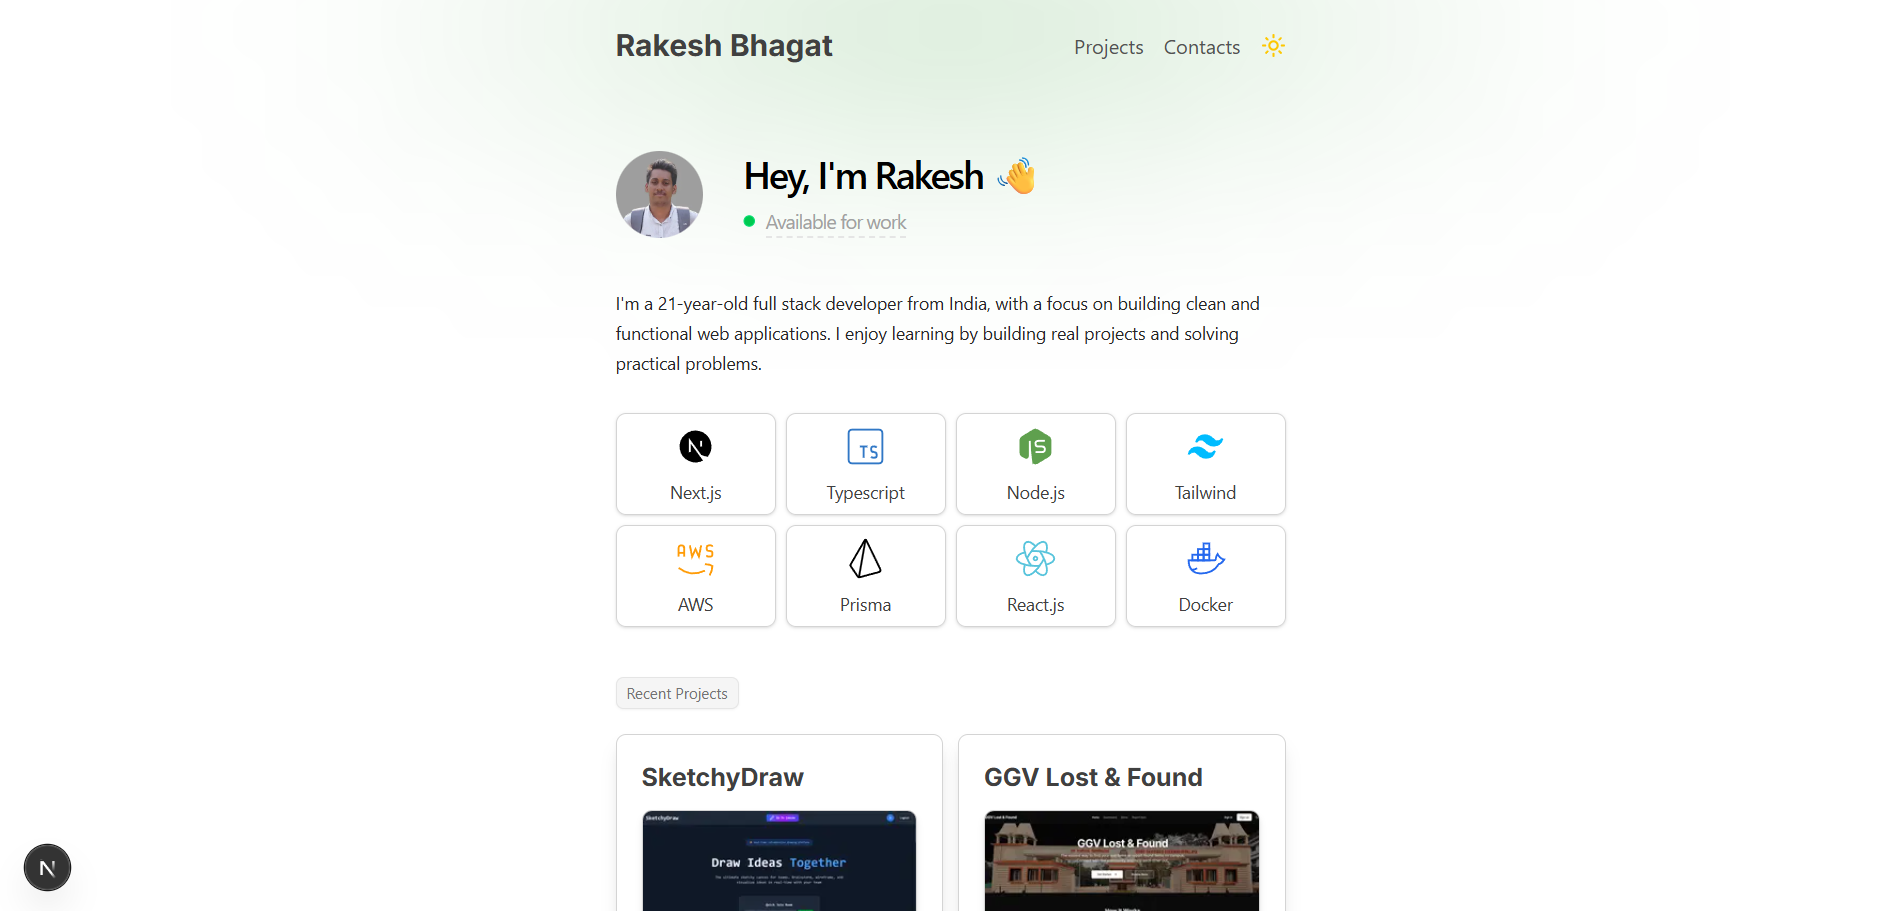
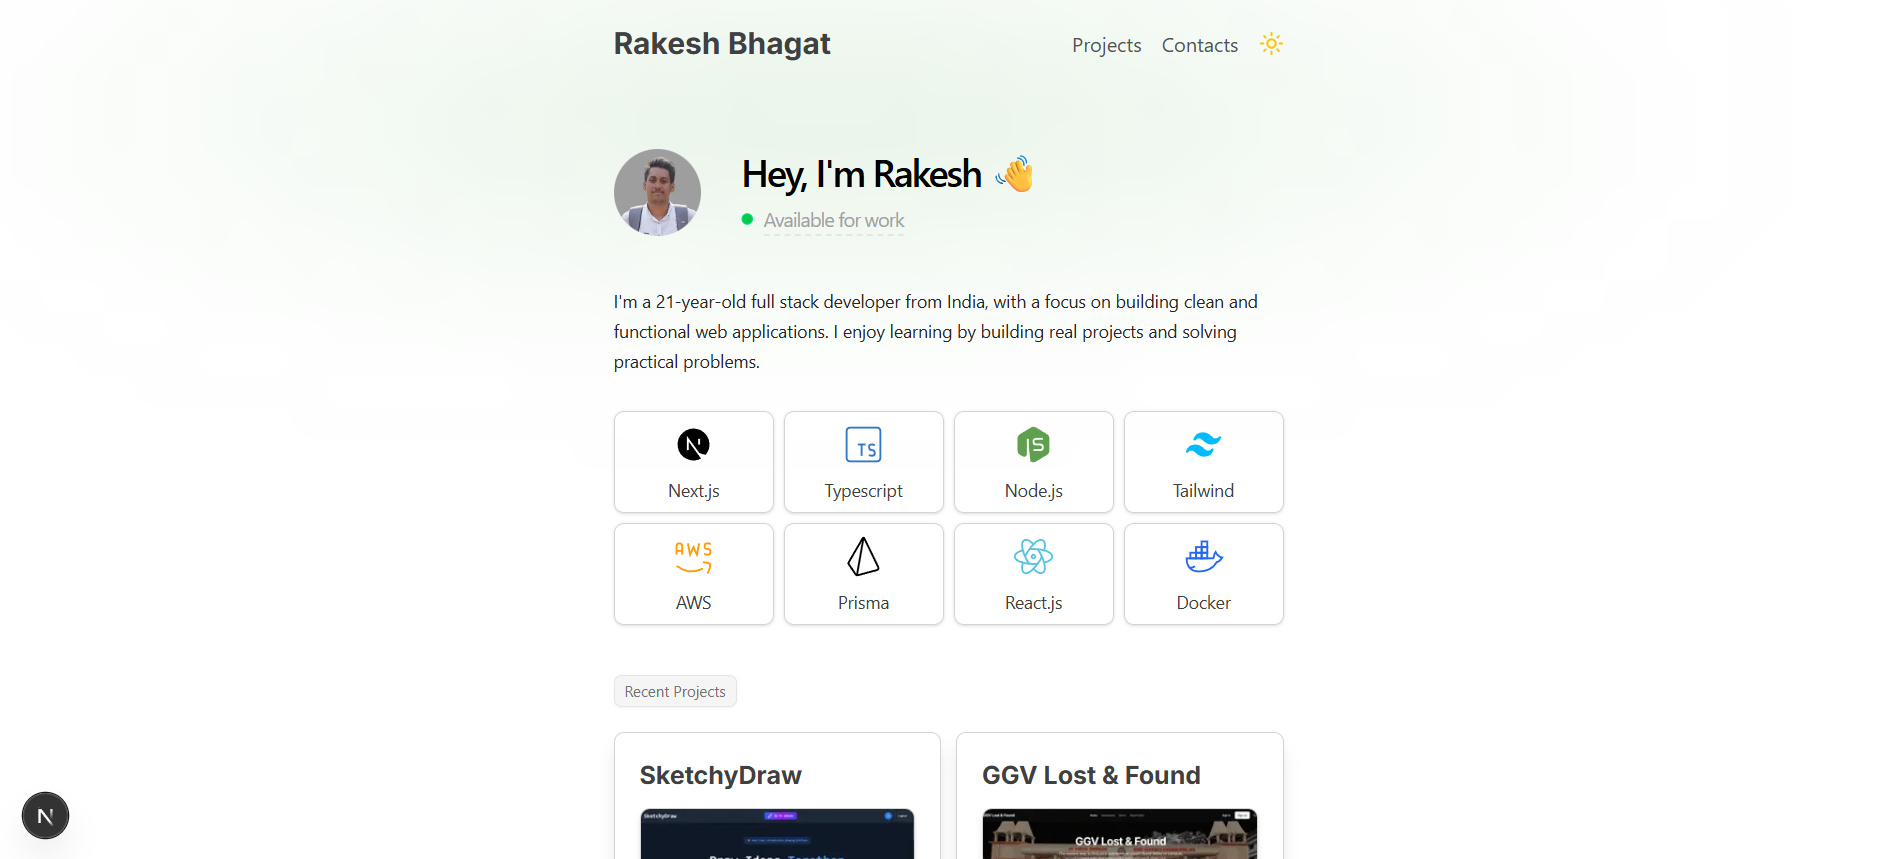
added project and contact page

diff --git a/app/contact/page.tsx b/app/contact/page.tsx
@@ -1,0 +1,89 @@
+"use client";
+import Footer from "@/components/Footer";
+import Navbar from "@/components/Navbar";
+import { IconSend2 } from "@tabler/icons-react";
+import { div } from "motion/react-client";
+import { useState } from "react";
+
+const Contact = () => {
+  const [name, setName] = useState("");
+  const [email, setEmail] = useState("");
+  const [message, setMessage] = useState("");
+  const [received, setReceived] = useState(false);
+
+  const handleSubmit = async (e:React.FormEvent<HTMLElement>) => {
+    e.preventDefault();
+    try {
+      const res = await fetch("/api/email", {
+        method: "POST",
+        headers: { "Content-Type": "application/json" },
+        body: JSON.stringify({ name, email, message }),
+      });
+
+      const data = await res.json();
+      console.log(res)
+      if (res.ok) {
+        setReceived(true)
+        setName("");
+        setEmail("");
+        setMessage("");
+      } else {
+        alert("Error: " + data.message);
+      }
+    } catch (error) {
+      alert("Something went wrong");
+      console.error(error);
+    }
+  };
+  return (
+    <div className=" h-screen mx-auto w-full md:max-w-2xl flex flex-col font-poppins px-5">
+      <Navbar />
+      <h1 className="text-4xl font-bold ">Contact me</h1>
+      {received && (
+        <div className="mt-10 flex gap-2">
+            <p className="">Thanks for the message. I will try to reply as soon as possible.</p>
+            <button onClick={()=>setReceived(false)} className="bg-yellow-200 px-3 rounded-md text-neutral-600 cursor-pointer">Message again</button>
+        </div>
+        )}
+      {!received && (
+      <div className="flex flex-col ">
+        <form onSubmit={handleSubmit}>
+          <div className="grid grid-cols-1 md:grid-cols-2 gap-2 mt-10 mb-2 md:my-10">
+            <input
+              value={name}
+              onChange={(e) => setName(e.target.value)}
+              type="text"
+              placeholder="Name"
+              className="border border-neutral-200 rounded-md shadow-sm px-3 py-1"
+            />
+            <input
+              value={email}
+              onChange={(e) => setEmail(e.target.value)}
+              type="text"
+              placeholder="Email"
+              className="border border-neutral-200 rounded-md shadow-sm px-3 py-1"
+            />
+          </div>
+          <textarea
+            value={message}
+            onChange={(e) => setMessage(e.target.value)}
+            name="desc"
+            id="desc"
+            placeholder="Leave feedback about site, Career Opurtunities or just say hello etc."
+            className="border w-full border-neutral-200 rounded-md shadow-sm px-3 py-1 h-24"
+          ></textarea>
+          <button
+            type="submit"
+            className="bg-gray-900 text-neutral-100 rounded-md px-4 py-2 mt-2 text-sm flex justify-center font-semibold font-inter w-full cursor-pointer"
+          >
+            Send Message <IconSend2 className="flex ml-2" />
+          </button>
+        </form>
+      </div>)}
+      
+      <Footer />
+    </div>
+  );
+};
+
+export default Contact;

diff --git a/app/page.tsx b/app/page.tsx
@@ -1,7 +1,7 @@
 "use client"
 import Navbar from "@/components/Navbar";
 import SkillCard from "@/components/SkillCard";
-import { Circle } from "lucide-react";
+import { ArrowRight, Circle } from "lucide-react";
 import Image from "next/image";
 import skills from "@/data/skills";
 import ProjectCard from "@/components/ProjectCard";
@@ -9,6 +9,7 @@ import Footer from "@/components/Footer";
 import projects from "@/data/projects";
 import {AnimatePresence, motion, useAnimationFrame}  from "motion/react";
 import { useState } from "react";
+import Link from "next/link";
 
 const gradients = [
   "radial-gradient(ellipse 100% 40% at 50% 0%, rgba(0, 0, 255, 0.7), transparent 50%)",
@@ -18,6 +19,7 @@ const gradients = [
   "radial-gradient(ellipse 100% 40% at 50% 0%, rgba(130, 0, 219, 0.7), transparent 50%)",
 ];
 
+
 export default function Home() {
    const [gradientIndex, setGradientIndex] = useState(0);
   
@@ -26,7 +28,7 @@ export default function Home() {
     setGradientIndex(idx);
   });
   return (
-    <div className=" h-screen mx-auto w-full md:max-w-xl tv:max-w-2xl flex flex-col font-poppins px-5">
+    <div className=" h-screen mx-auto w-full md:max-w-2xl flex flex-col font-poppins px-5">
       <AnimatePresence>
         <motion.div
           className="absolute top-20 left-[-100] w-full h-[300px] z-[-1]"
@@ -47,7 +49,7 @@ export default function Home() {
           className="rounded-full mr-8"
           src={"/dp.png"}
           width={70}
-          height={60}
+          height={70}
           alt="dp"
         />
         <div className="flex flex-col">
@@ -64,7 +66,7 @@ export default function Home() {
           </div>
         </div>
       </div>
-      <p className="tracking-normal leading-6 text-neutral-800 text-sm sm:text-md">
+      <p className="tracking-normal leading-6 text-neutral-800">
         I&apos;m a 21-year-old full stack developer from India, with a focus on
         building clean and functional web applications. I enjoy learning by
         building real projects and solving practical problems.
@@ -76,9 +78,15 @@ export default function Home() {
         ))}
       </div>
 
-      <h2 className="mt-10 bg-neutral-100 w-fit px-2 py-1 font-poppins rounded-md text-neutral-500 text-xs border border-neutral-200 shadow-xs">
+      <div className=" mt-10 flex justify-between items-center">
+        <h2 className="flex bg-neutral-100 w-fit px-2 py-1 font-poppins rounded-md text-neutral-500 text-xs border border-neutral-200 shadow-xs">
         Recent Projects
-      </h2>
+      </h2 >
+      <Link href={"/projects"}>
+      <h2 className="flex text-neutral-500 hover:text-neutral-800 cursor-pointer">View more <ArrowRight className="ml-2" /></h2>
+      </Link>
+      </div>
+      
       <div className="mt-5 grid grid-cols-1 sm:grid-cols-2 gap-3">
         {projects.map((item, index) => (
           <ProjectCard

diff --git a/components/Navbar.tsx b/components/Navbar.tsx
@@ -2,18 +2,23 @@
 import navlinks from '@/data/navLinks';
 import { IconMenu2, IconX } from '@tabler/icons-react';
 import { Sun } from 'lucide-react';
+import Link from 'next/link';
 import { useState } from 'react';
 
 const Navbar = () => {
   const [open, setOpen] = useState(false);
   return (
-    <div className=" relative flex items-center justify-between md:max-w-xl tv:max-w-2xl w-full mt-4 bg-transparent py-2 top-0 mb-15  rounded-xl">
+    <div className=" relative flex items-center justify-between md:max-w-2xl w-full mt-4 bg-transparent py-2 top-0 mb-10 md:mb-15  rounded-xl">
         <div className="flex">
+          <Link href={"/"}>
             <h2 className="font-bold font-inter text-lg md:text-2xl text-neutral-700 cursor-pointer hover:text-black">Rakesh Bhagat</h2>
+          </Link>
         </div>
         <div className="hidden sm:visible sm:flex gap-4 ">
-            {navlinks.map((link) => (
-                <p key={link.link} className="text-neutral-600 cursor-pointer hover:text-black">{link.link}</p>
+            {navlinks.map((item, index) => (
+              <Link key={index} href={item.route}>
+                <p className="text-neutral-600 cursor-pointer hover:text-black">{item.title}</p>
+                </Link>
             ))}
             <button><Sun width={20} height={20} className='text-yellow-400 hover:text-yellow-600 cursor-pointer'/></button>
         </div>
@@ -28,8 +33,10 @@ const Navbar = () => {
 
         {open && (
           <div className='absolute top-10 bg-blue-50 flex flex-col w-full items-center justify-center gap-3 mt-2'>
-            {navlinks.map((link) => (
-                <div key={link.link} className="font-inter text-neutral-700 cursor-pointer hover:text-black">{link.link}</div>
+            {navlinks.map((item, index) => (
+              <Link key={index} href={item.route}>
+                <p className="text-neutral-600 cursor-pointer hover:text-black">{item.title}</p>
+                </Link>
             ))}
             
           </div>

diff --git a/components/ProjectCard.tsx b/components/ProjectCard.tsx
@@ -6,9 +6,9 @@ import Link from "next/link"
 
 const ProjectCard = ({title, img, description, stack, live, github}: ProjectCardProps) => {
   return (
-    <div className="flex flex-col border border-neutral-300 px-5 py-5 rounded-lg shadow-lg hover:shadow-2xl">
+    <div className="flex flex-col border border-neutral-300 p-5 rounded-lg shadow-lg hover:shadow-2xl">
       <h2 className="text-xl font-bold text-neutral-700 font-inter mb-3">{title}</h2>
-      {img && <Image className="w-full rounded-lg border border-neutral-300 shadow-md" width={100} height={70} src={img} alt="project-image" />}
+      {img && <Image className="w-full rounded-lg border border-neutral-300 shadow-md" width={100} height={100} src={img} alt="project-image" />}
       <p className="mt-5 text-neutral-400 tracking font-inter text-sm">{description}</p>
       <div className="mt-5 flex flex-wrap items-center gap-2 ">
         {stack.map((item, index) => (

diff --git a/app/api/email/route.ts b/app/api/email/route.ts
@@ -1,0 +1,33 @@
+import { NextRequest, NextResponse } from "next/server"
+import nodemailer from "nodemailer"
+
+export async function POST(req: NextRequest) {
+  const { name, email, message } = await req.json()
+
+  const transporter = nodemailer.createTransport({
+    service: "gmail",
+    auth: {
+      user: process.env.EMAIL_USER,
+      pass: process.env.EMAIL_PASS,
+    },
+  })
+
+  const mailOptions = {
+    from: email,
+    to: process.env.EMAIL_USER,
+    subject: `Message from ${name}`,
+    text: `
+      Name: ${name}
+      Email: ${email}
+      Message: ${message}
+    `,
+  }
+
+  try {
+    await transporter.sendMail(mailOptions)
+    return NextResponse.json({ success: true, message: "Email sent successfully" }, { status: 200 })
+  } catch (error) {
+    console.error("Email failed:", error)
+    return NextResponse.json({ success: false, message: "Failed to send email" }, { status: 500 })
+  }
+}

diff --git a/app/projects/page.tsx b/app/projects/page.tsx
@@ -1,0 +1,30 @@
+import Footer from "@/components/Footer"
+import Navbar from "@/components/Navbar"
+import ProjectCard from "@/components/ProjectCard"
+import projects from "@/data/projects"
+
+const Projects = () => {
+  return (
+    <div className=" h-screen mx-auto w-full md:max-w-2xl flex flex-col font-poppins px-5">
+      
+      <Navbar />
+      <h1 className="text-4xl font-bold mb-5">My Projects.</h1>
+      <div className="mt-5 grid grid-cols-1 sm:grid-cols-2 gap-3">
+        {projects.map((item, index) => (
+          <ProjectCard
+            key={index}
+            title={item.title}
+            img={item.img}
+            description={item.description}
+            stack={item.stack}
+            live={item.live}
+            github={item.github}
+          />
+        ))}
+      </div>
+      <Footer />
+    </div>
+  )
+}
+
+export default Projects

diff --git a/components/Footer.tsx b/components/Footer.tsx
@@ -7,7 +7,7 @@ import Link from "next/link";
 
 const Footer = () => {
   return (
-    <div className="md:max-w-xl tv:max-w-2xl mt-10 flex flex-col sm:flex-row gap-5 items-center sm:items-start justify-between px-2 py-5 border-t border-neutral-300">
+    <div className="md:max-w-2xl mt-10 flex flex-col sm:flex-row gap-5 items-center sm:items-start justify-between px-2 py-5 border-t border-neutral-300">
       <div className="text-sm">&copy; 2025 bhagat.dev</div>
       <div className="flex gap-4 sm:justify-evenly">
         <Link target="_blank" href={"https://www.linkedin.com/in/irakesh-bhagat/"}>

diff --git a/app/layout.tsx b/app/layout.tsx
@@ -35,7 +35,7 @@ export default function RootLayout({
   return (
     <html lang="en">
       <body
-        className={`${geistSans.variable} ${geistMono.variable} ${inter.variable} ${poppins.variable} antialiased`}
+        className={`${geistSans.variable} ${geistMono.variable} ${inter.variable} ${poppins.variable} antialiased selection:bg-green-100 selection:text-neutral-600`}
       >
         {children}
       </body>

diff --git a/data/navLinks.ts b/data/navLinks.ts
@@ -1,9 +1,11 @@
 const navlinks = [
     {
-        link : "Projects"
+        title : "Projects",
+        route: "/projects"
     },
     {
-        link: "Contacts"
+        title: "Contacts",
+        route: "/contact"
     }
 ]
 

diff --git a/app/globals.css b/app/globals.css
@@ -2,6 +2,5 @@
 
 @theme{
   --font-inter: ['Inter', "sans"]
-  --breakpoint-tv: 2000px
 }
 
